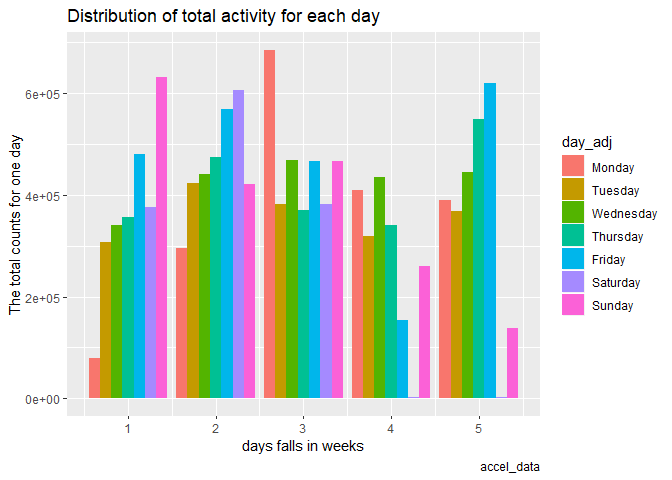
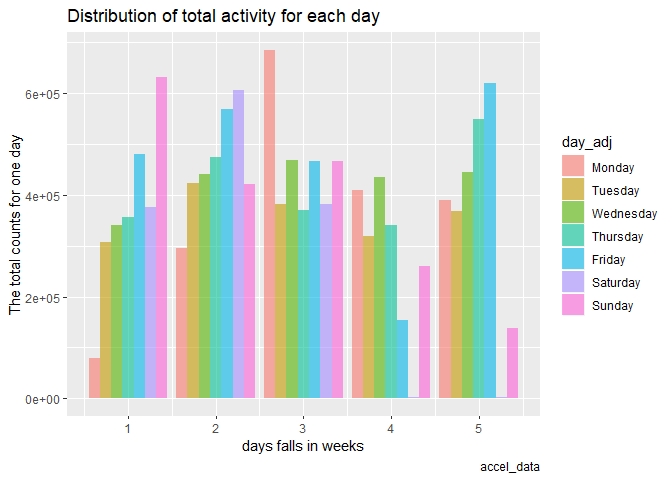
Graph 3 done

Changed region(s): [[0.125, 0.0938, 0.7812, 0.8438], [0.8125, 0.3125, 0.875, 0.6562]]

diff --git a/p8105_hw3_bl2789.md b/p8105_hw3_bl2789.md
@@ -261,7 +261,7 @@ aggregate_day
 
 ``` r
 ggplot(aggregate_day,aes(x=week,y=sum_of_day,fill = day_adj))+
-  geom_bar(stat = "identity",position=position_dodge())+ 
+  geom_bar(stat = "identity",alpha = 0.6, position=position_dodge())+ 
   labs(
     title = "Distribution of total activity for each day",
     x = "days falls in weeks",
@@ -269,4 +269,28 @@ ggplot(aggregate_day,aes(x=week,y=sum_of_day,fill = day_adj))+
     caption = "accel_data") 
 ```
 
-![](p8105_hw3_bl2789_files/figure-gfm/unnamed-chunk-10-1.png)<!-- -->
+![](p8105_hw3_bl2789_files/figure-gfm/unnamed-chunk-10-1.png)<!-- --> \*
+Are any trends
+apparent?
+
+## c
+
+``` r
+my_levels = c("Monday","Tuesday","Wednesday","Thursday","Friday","Saturday","Sunday")
+day_adj = factor(pull(accel_data,day),levels = my_levels)
+
+accel = accel_data%>%
+        mutate(day_adj)%>%
+        group_by(week,day_id,day_adj)
+  
+  
+ggplot(accel, aes(x=minute_number,y=activity_counts,color = day_adj)) + 
+  geom_point(alpha = 0.6) + 
+  labs(
+    title = "Trend of total activity in a day",
+    x = "activity in nth minute",
+    y = "The total counts for activity",
+    caption = "accel_data") 
+```
+
+![](p8105_hw3_bl2789_files/figure-gfm/unnamed-chunk-11-1.png)<!-- -->
